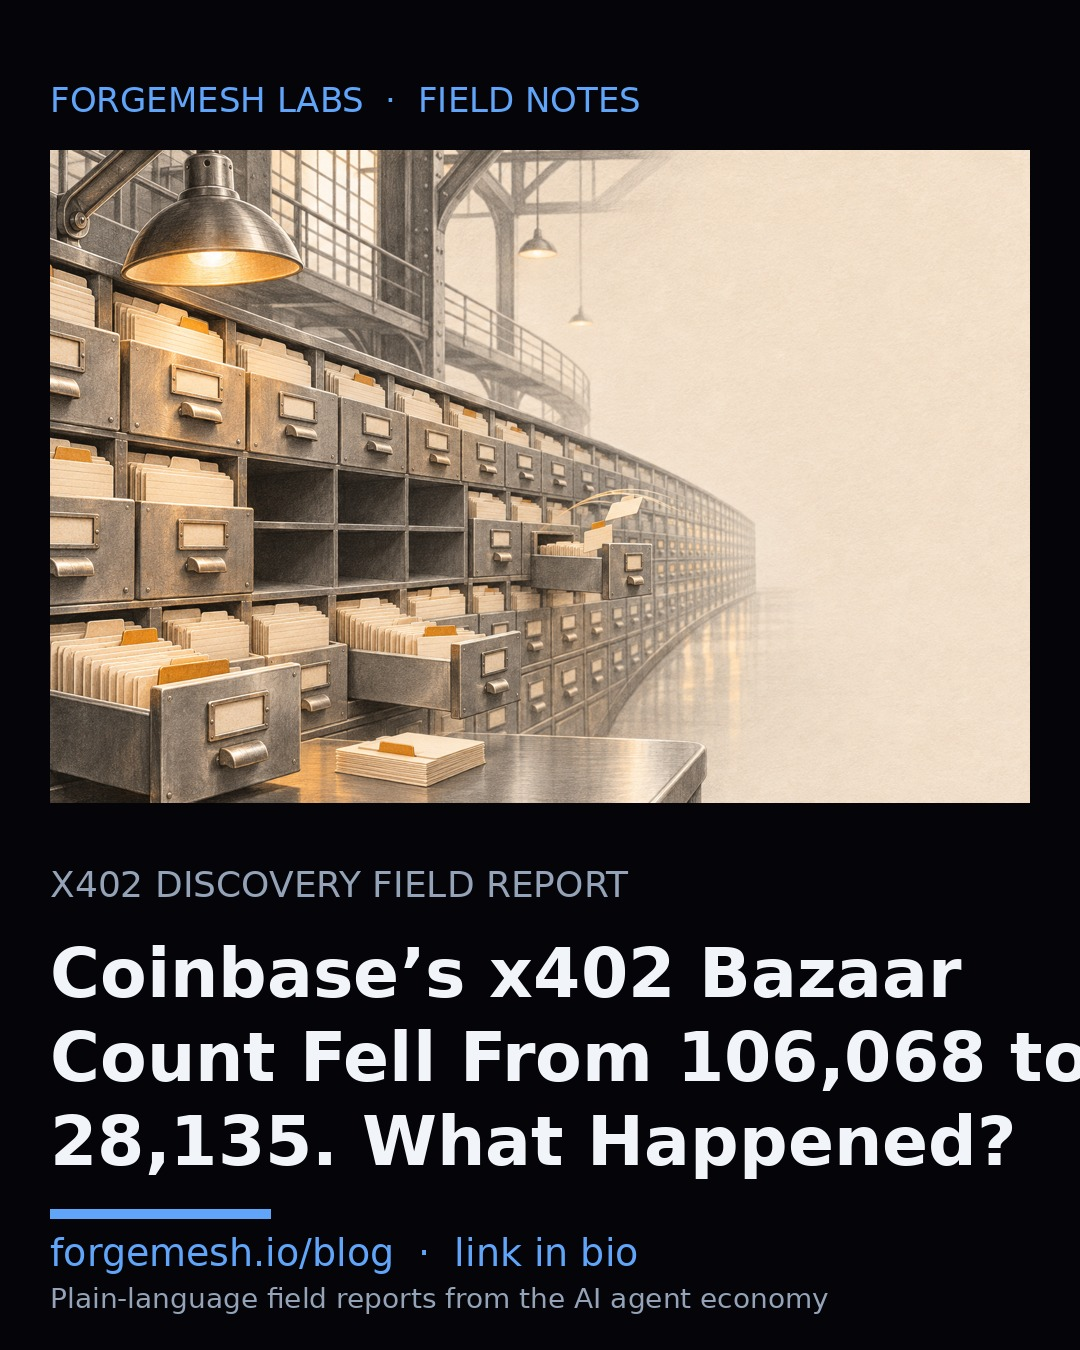
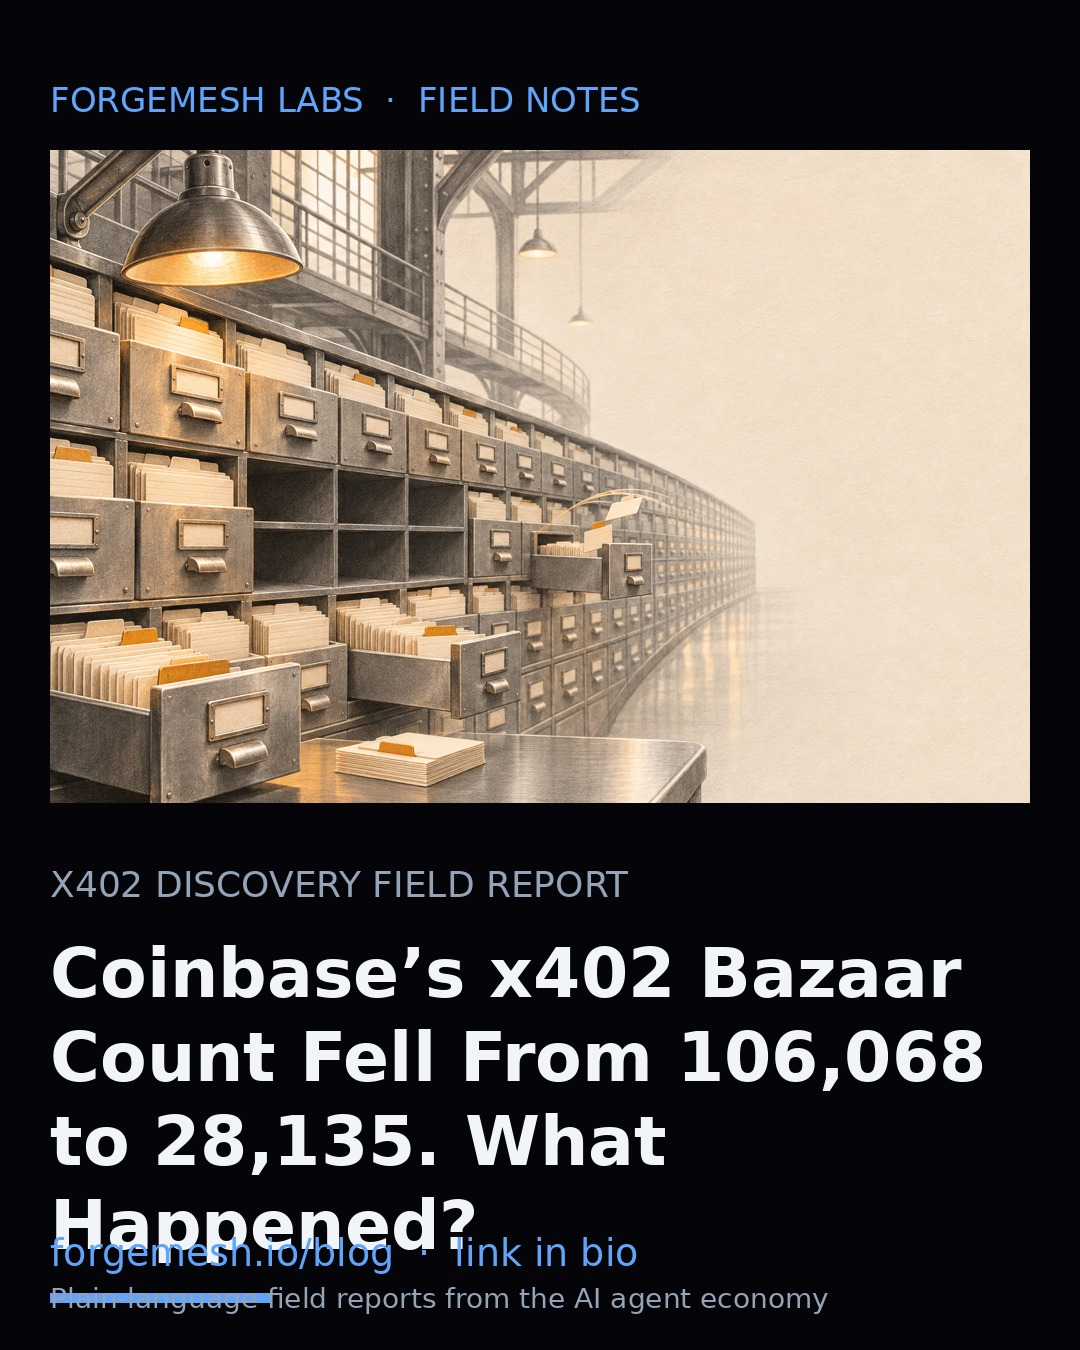
cards: wrap title and clip kicker by measured width so text never runs off the pin/IG card

Changed region(s): [[0.0306, 0.7467, 1.0, 0.9644]]

diff --git a/site/scripts/make-pins.py b/site/scripts/make-pins.py
@@ -2,7 +2,7 @@ from PIL import Image, ImageDraw, ImageFont
 import json, os, textwrap, re
 
 POSTS = [
-    ("the-week-the-stack-showed-its-age", "The Week the Stack Showed Its Age", "14 · 601 drone sightings near airports in Q2 2026 — double the prior quarter · $50B…"),
+    ("the-week-the-stack-showed-its-age", "The Week the Stack Showed Its Age", "Outages, a ground stop, new AI terms"),
     ("x402-bazaar-listing-count-fluctuations", "Coinbase’s x402 Bazaar Count Fell From 106,068 to 28,135. What Happened?", "X402 DISCOVERY FIELD REPORT"),
     ("free-website-security-check-cold-email-scan", "That \"Security Researcher\" Email Is Just a Free Scan. Run It Yourself.", "Free website security check"),
     ("square-town-forgemesh-moved-in", "Kiss Our Favicon.", "A tiny home on the web"),
@@ -78,6 +78,26 @@ reg="/usr/share/fonts/truetype/dejavu/DejaVuSans.ttf"
 SITE = "/home/ubuntu/dev/forgemesh/site"
 os.makedirs(f"{SITE}/content/assets/pins", exist_ok=True)
 
+def wrap_px(d, text, font, maxw):
+    """Word-wrap by measured pixel width so no line runs off the card."""
+    lines, cur = [], ""
+    for w in text.split():
+        t = (cur + " " + w).strip()
+        if cur and d.textlength(t, font=font) > maxw:
+            lines.append(cur); cur = w
+        else:
+            cur = t
+    if cur: lines.append(cur)
+    return lines
+
+def clip_px(d, text, font, maxw):
+    """Cut a one-line string at a word boundary to fit, adding an ellipsis."""
+    if d.textlength(text, font=font) <= maxw: return text
+    words = text.rstrip("…").split()
+    while words and d.textlength(" ".join(words) + "…", font=font) > maxw:
+        words.pop()
+    return (" ".join(words).rstrip(" ·—-") + "…") if words else text
+
 def hero_for(slug):
     for p in (f"{SITE}/content/assets/{slug}.png", f"{SITE}/public/blog/{slug}.png"):
         if os.path.exists(p):
@@ -95,10 +115,11 @@ for slug, title, kicker in POSTS:
     fk = ImageFont.truetype(reg, 30)
     d.text((40,60), "FORGEMESH LABS  ·  FIELD NOTES", font=fk, fill=BLUE)
     y = 120+hh+50
-    d.text((40,y), kicker.upper(), font=ImageFont.truetype(reg,32), fill=SLATE)
+    fkk = ImageFont.truetype(reg,32)
+    d.text((40,y), clip_px(d, kicker.upper(), fkk, W-80), font=fkk, fill=SLATE)
     y += 60
     ft = ImageFont.truetype(bold, 64)
-    for line in textwrap.wrap(title, width=26):
+    for line in wrap_px(d, title, ft, W-80):
         d.text((40,y), line, font=ft, fill=WHITE)
         y += 78
     # accent bar

diff --git a/site/scripts/make-ig-cards.py b/site/scripts/make-ig-cards.py
@@ -27,6 +27,26 @@ def hero_for(slug):
 
 FOOTER = {"wordpress-pay-per-crawl-pro": ("proxy.forgemesh.io/wp  ·  link in bio", "Dashboard, weekly digest, alerts · up to 5 sites"), "wordpress-plugin-page": ("forgemesh.io/wordpress  ·  link in bio", "Humans read free · AI crawlers pay USDC per page"), "vin-checker": ("forgemesh.io/vin  ·  link in bio", "Free VIN check · official U.S. government safety data")}
 
+def wrap_px(d, text, font, maxw):
+    """Word-wrap by measured pixel width so no line runs off the card."""
+    lines, cur = [], ""
+    for w in text.split():
+        t = (cur + " " + w).strip()
+        if cur and d.textlength(t, font=font) > maxw:
+            lines.append(cur); cur = w
+        else:
+            cur = t
+    if cur: lines.append(cur)
+    return lines
+
+def clip_px(d, text, font, maxw):
+    """Cut a one-line string at a word boundary to fit, adding an ellipsis."""
+    if d.textlength(text, font=font) <= maxw: return text
+    words = text.rstrip("…").split()
+    while words and d.textlength(" ".join(words) + "…", font=font) > maxw:
+        words.pop()
+    return (" ".join(words).rstrip(" ·—-") + "…") if words else text
+
 for slug, title, kicker in POSTS:
     img = Image.new("RGB", (W, H), BG)
     d = ImageDraw.Draw(img)
@@ -36,10 +56,11 @@ for slug, title, kicker in POSTS:
     img.paste(hero, (50, 150))
     d.text((50, 80), "FORGEMESH LABS  ·  FIELD NOTES", font=ImageFont.truetype(reg, 34), fill=BLUE)
     y = 150 + hh + 60
-    d.text((50, y), kicker.upper(), font=ImageFont.truetype(reg, 36), fill=SLATE)
+    fkk = ImageFont.truetype(reg, 36)
+    d.text((50, y), clip_px(d, kicker.upper(), fkk, W - 100), font=fkk, fill=SLATE)
     y += 70
     ft = ImageFont.truetype(bold, 68)
-    for line in textwrap.wrap(title, width=27):
+    for line in wrap_px(d, title, ft, W - 100):
         d.text((50, y), line, font=ft, fill=WHITE)
         y += 84
     d.rectangle([50, y + 24, 270, y + 33], fill=BLUE)
